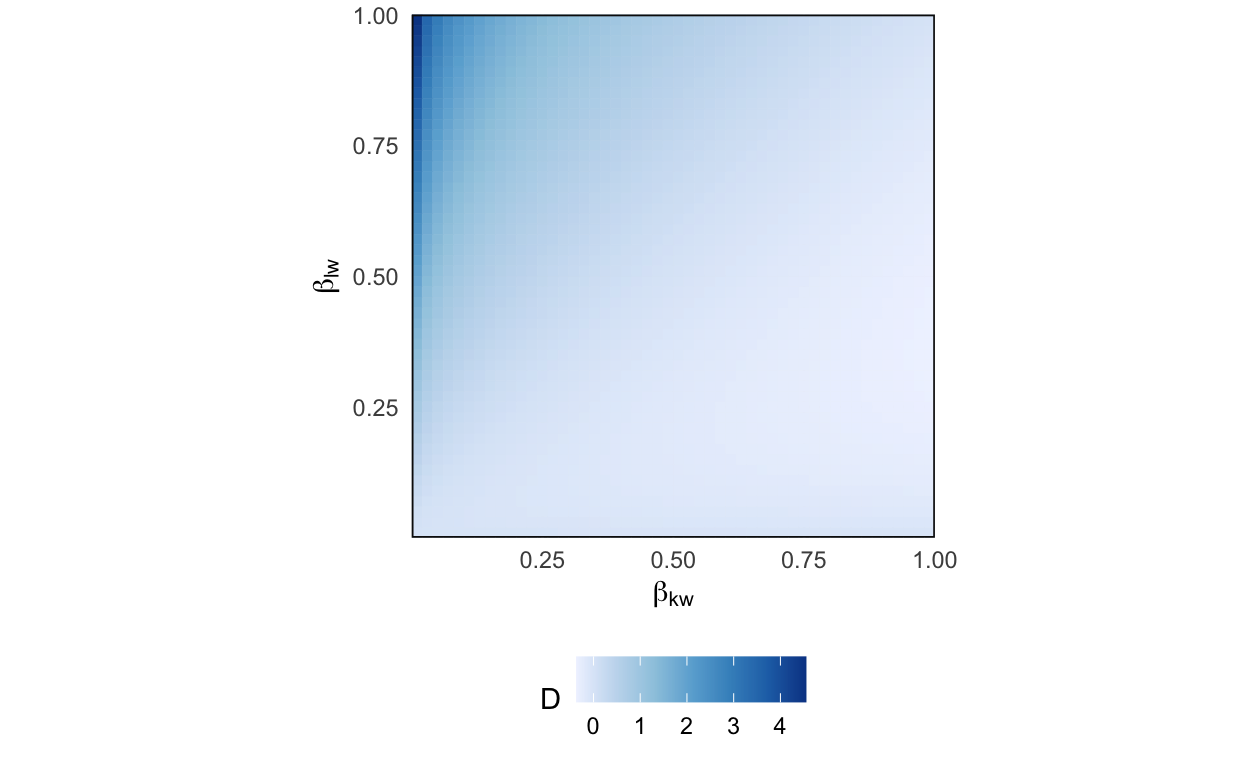
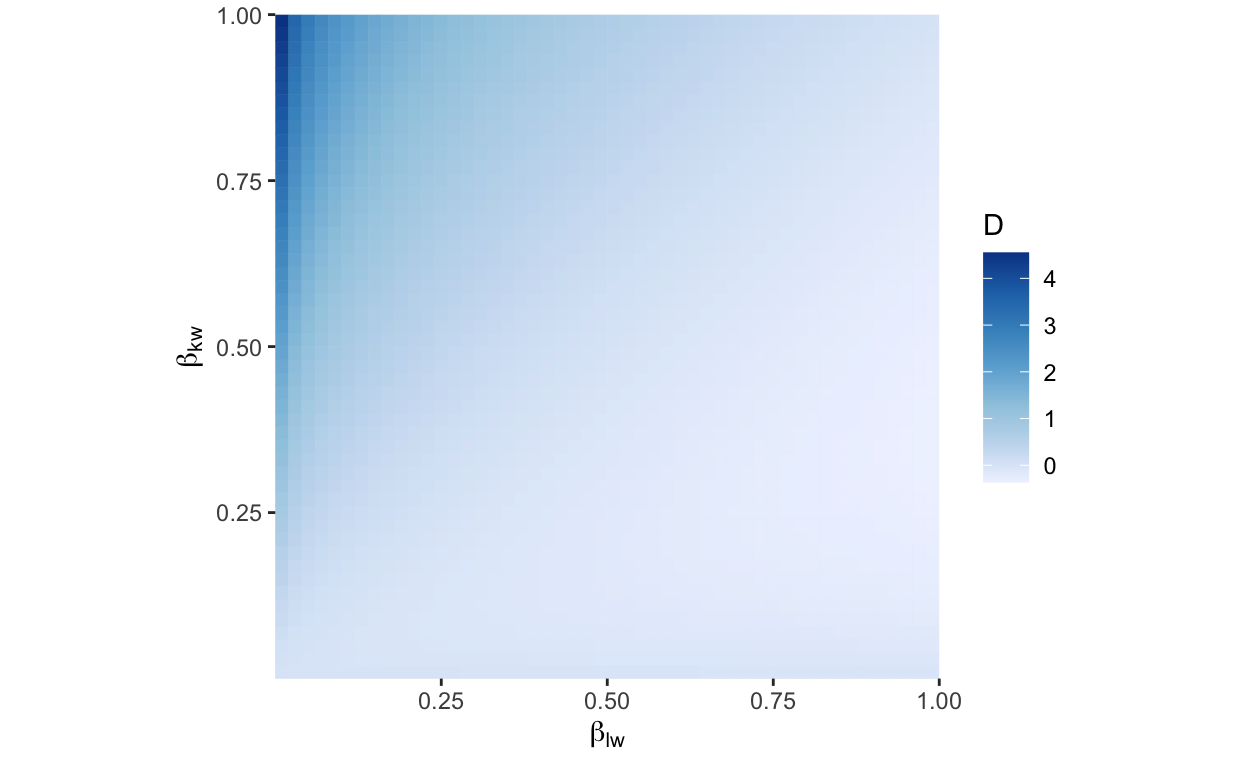
remove unecessary text in 11-2

Changed region(s): [[0.125, 0.0, 0.7812, 0.9688], [0.7812, 0.2812, 0.8438, 0.625]]

diff --git a/docs/posts/2021-03-30-week11-3/index.html b/docs/posts/2021-03-30-week11-3/index.html
@@ -2248,7 +2248,7 @@ d-article ul > li { /*to add back in space between bullet items that I took away
 </div>
 
 <div class="d-article">
-<p><em>Reading <a href="https://www.tidytextmining.com/topicmodeling.html">1</a> and <a href="https://github.com/krisrs1128/stat479/blob/master/_posts/2021-03-30-week11-3/week11-3.Rmd">2</a>, <a href="">Recording</a>, <a href="https://github.com/krisrs1128/stat479/blob/master/_posts/2021-03-30-week11-3/week11-3.Rmd">Rmarkdown</a></em></p>
+<p><em>Reading <a href="https://www.tidytextmining.com/topicmodeling.html">1</a> and <a href="https://github.com/krisrs1128/stat479/blob/master/_posts/2021-03-30-week11-3/week11-3.Rmd">2</a>, <a href="https://mediaspace.wisc.edu/media/Week%2011%20%5B3%5D%20Visualizing%20Topic%20Models/1_t6bn2guv">Recording</a>, <a href="https://github.com/krisrs1128/stat479/blob/master/_posts/2021-03-30-week11-3/week11-3.Rmd">Rmarkdown</a></em></p>
 <div class="layout-chunk" data-layout="l-body">
 <div class="sourceCode">
 <pre><code><span class='kw'><a href='https://rdrr.io/r/base/library.html'>library</a></span><span class='op'>(</span><span class='st'><a href='https://dplyr.tidyverse.org'>"dplyr"</a></span><span class='op'>)</span>
@@ -2283,8 +2283,9 @@ d-article ul > li { /*to add back in space between bullet items that I took away
 </code></pre>
 </div>
 </div>
+<h3 id="visualizing-topics">Visualizing Topics</h3>
 <ol start="2" type="1">
-<li>A topic is a probability distribution across a collection of words. If the vocabulary isn’t too large, two appropriate visualization strategieis are,
+<li>A topic is a probability distribution across a collection of words. If the vocabulary isn’t too large, two appropriate visualization strategies are,
 <ul>
 <li>Faceted barplot: Each facet corresponds to a topic. The height of each bar corresponds to a given word’s probability within the topic. The sum of heights across all bars is 1.</li>
 <li>Heatmap: Each row is a topic and each column is a word. The color of the heatmap cells gives the probability of the word within the given topic.</li>
@@ -2361,7 +2362,7 @@ Figure 3: The top words associated with the four fitted topics from the Great Li
 <ol start="7" type="1">
 <li>To visualize discriminative words, we first compute a discrimination measure for each word and filter to those with the top score. The filtered results can be used in either faceted barplots or heatmaps. Specifically, to find the words that discriminate between topics <span class="math inline">\(k\)</span> and <span class="math inline">\(l\)</span>, we compute <span class="math display">\[\begin{align*}
 D\left(k, l\right) := \beta_{kw}\log\left(\frac{\beta_{kw}}{\beta_{lw}}\right) + \left(\beta_{lw} - \beta_{kw}\right)
-\end{align*}\]</span> for each word <span class="math inline">\(w\)</span>. By maximizing over all pairs <span class="math inline">\(k, l\)</span>, we can determine whether the word is discriminative between any pair of topics. This might seem like a mysterious formula, but it is just a function that is large when topic <span class="math inline">\(l\)</span> has much larger probability than topic <span class="math inline">\(k\)</span> (see the figure).</li>
+\end{align*}\]</span> for each word <span class="math inline">\(w\)</span>. By maximizing over all pairs <span class="math inline">\(k, l\)</span>, we can determine whether the word is discriminative between any pair of topics. This might seem like a mysterious formula, but it is just a function that is large when topic <span class="math inline">\(k\)</span> has much larger probability than topic <span class="math inline">\(l\)</span> (see the figure).</li>
 </ol>
 <div class="layout-chunk" data-layout="l-body">
 
@@ -2370,25 +2371,25 @@ D\left(k, l\right) := \beta_{kw}\log\left(\frac{\beta_{kw}}{\beta_{lw}}\right) +
 <div class="sourceCode">
 <pre><code><span class='va'>p</span> <span class='op'>&lt;-</span> <span class='fu'><a href='https://rdrr.io/r/base/seq.html'>seq</a></span><span class='op'>(</span><span class='fl'>0.01</span>, <span class='fl'>.99</span>, length.out <span class='op'>=</span> <span class='fl'>50</span><span class='op'>)</span>
 <span class='va'>df</span> <span class='op'>&lt;-</span> <span class='fu'><a href='https://rdrr.io/r/base/expand.grid.html'>expand.grid</a></span><span class='op'>(</span><span class='va'>p</span>, <span class='va'>p</span><span class='op'>)</span> <span class='op'>%&gt;%</span>
-  <span class='fu'><a href='https://dplyr.tidyverse.org/reference/mutate.html'>mutate</a></span><span class='op'>(</span>D <span class='op'>=</span> <span class='fu'>kl_div</span><span class='op'>(</span><span class='va'>Var1</span>, <span class='va'>Var2</span><span class='op'>)</span><span class='op'>)</span>
+  <span class='fu'>mutate</span><span class='op'>(</span>D <span class='op'>=</span> <span class='fu'>kl_div</span><span class='op'>(</span><span class='va'>Var1</span>, <span class='va'>Var2</span><span class='op'>)</span><span class='op'>)</span>
 
-<span class='fu'><a href='https://ggplot2.tidyverse.org/reference/ggplot.html'>ggplot</a></span><span class='op'>(</span><span class='va'>df</span>, <span class='fu'><a href='https://ggplot2.tidyverse.org/reference/aes.html'>aes</a></span><span class='op'>(</span><span class='va'>Var2</span>, <span class='va'>Var1</span><span class='op'>)</span><span class='op'>)</span> <span class='op'>+</span>
-  <span class='fu'><a href='https://ggplot2.tidyverse.org/reference/geom_tile.html'>geom_tile</a></span><span class='op'>(</span><span class='fu'><a href='https://ggplot2.tidyverse.org/reference/aes.html'>aes</a></span><span class='op'>(</span>col <span class='op'>=</span> <span class='va'>D</span>, fill <span class='op'>=</span> <span class='va'>D</span><span class='op'>)</span><span class='op'>)</span> <span class='op'>+</span>
-  <span class='fu'><a href='https://ggplot2.tidyverse.org/reference/scale_continuous.html'>scale_x_continuous</a></span><span class='op'>(</span>expand <span class='op'>=</span> <span class='fu'><a href='https://rdrr.io/r/base/c.html'>c</a></span><span class='op'>(</span><span class='fl'>0</span>, <span class='fl'>0</span><span class='op'>)</span><span class='op'>)</span> <span class='op'>+</span>
-  <span class='fu'><a href='https://ggplot2.tidyverse.org/reference/scale_continuous.html'>scale_y_continuous</a></span><span class='op'>(</span>expand <span class='op'>=</span> <span class='fu'><a href='https://rdrr.io/r/base/c.html'>c</a></span><span class='op'>(</span><span class='fl'>0</span>, <span class='fl'>0</span><span class='op'>)</span><span class='op'>)</span> <span class='op'>+</span>
-  <span class='fu'><a href='https://ggplot2.tidyverse.org/reference/coord_fixed.html'>coord_fixed</a></span><span class='op'>(</span><span class='op'>)</span> <span class='op'>+</span>
-  <span class='fu'><a href='https://ggplot2.tidyverse.org/reference/scale_brewer.html'>scale_color_distiller</a></span><span class='op'>(</span>direction <span class='op'>=</span> <span class='fl'>1</span><span class='op'>)</span> <span class='op'>+</span>
-  <span class='fu'><a href='https://ggplot2.tidyverse.org/reference/scale_brewer.html'>scale_fill_distiller</a></span><span class='op'>(</span>direction <span class='op'>=</span> <span class='fl'>1</span><span class='op'>)</span> <span class='op'>+</span>
-  <span class='fu'><a href='https://ggplot2.tidyverse.org/reference/labs.html'>labs</a></span><span class='op'>(</span>
-    x <span class='op'>=</span> <span class='fu'><a href='https://rdrr.io/r/base/expression.html'>expression</a></span><span class='op'>(</span><span class='va'>beta</span><span class='op'>[</span><span class='va'>kw</span><span class='op'>]</span><span class='op'>)</span>,
-    y <span class='op'>=</span> <span class='fu'><a href='https://rdrr.io/r/base/expression.html'>expression</a></span><span class='op'>(</span><span class='va'>beta</span><span class='op'>[</span><span class='va'>lw</span><span class='op'>]</span><span class='op'>)</span>
+<span class='fu'>ggplot</span><span class='op'>(</span><span class='va'>df</span>, <span class='fu'>aes</span><span class='op'>(</span><span class='va'>Var2</span>, <span class='va'>Var1</span><span class='op'>)</span><span class='op'>)</span> <span class='op'>+</span>
+  <span class='fu'>geom_tile</span><span class='op'>(</span><span class='fu'>aes</span><span class='op'>(</span>col <span class='op'>=</span> <span class='va'>D</span>, fill <span class='op'>=</span> <span class='va'>D</span><span class='op'>)</span><span class='op'>)</span> <span class='op'>+</span>
+  <span class='fu'>scale_x_continuous</span><span class='op'>(</span>expand <span class='op'>=</span> <span class='fu'><a href='https://rdrr.io/r/base/c.html'>c</a></span><span class='op'>(</span><span class='fl'>0</span>, <span class='fl'>0</span><span class='op'>)</span><span class='op'>)</span> <span class='op'>+</span>
+  <span class='fu'>scale_y_continuous</span><span class='op'>(</span>expand <span class='op'>=</span> <span class='fu'><a href='https://rdrr.io/r/base/c.html'>c</a></span><span class='op'>(</span><span class='fl'>0</span>, <span class='fl'>0</span><span class='op'>)</span><span class='op'>)</span> <span class='op'>+</span>
+  <span class='fu'>coord_fixed</span><span class='op'>(</span><span class='op'>)</span> <span class='op'>+</span>
+  <span class='fu'>scale_color_distiller</span><span class='op'>(</span>direction <span class='op'>=</span> <span class='fl'>1</span><span class='op'>)</span> <span class='op'>+</span>
+  <span class='fu'>scale_fill_distiller</span><span class='op'>(</span>direction <span class='op'>=</span> <span class='fl'>1</span><span class='op'>)</span> <span class='op'>+</span>
+  <span class='fu'>labs</span><span class='op'>(</span>
+    y <span class='op'>=</span> <span class='fu'><a href='https://rdrr.io/r/base/expression.html'>expression</a></span><span class='op'>(</span><span class='va'>beta</span><span class='op'>[</span><span class='va'>kw</span><span class='op'>]</span><span class='op'>)</span>,
+    x <span class='op'>=</span> <span class='fu'><a href='https://rdrr.io/r/base/expression.html'>expression</a></span><span class='op'>(</span><span class='va'>beta</span><span class='op'>[</span><span class='va'>lw</span><span class='op'>]</span><span class='op'>)</span>
   <span class='op'>)</span>
 </code></pre>
 </div>
 <div class="figure"><span id="fig:unnamed-chunk-7"></span>
-<img src="week11-3_files/figure-html5/unnamed-chunk-7-1.png" alt="An illustration of the formula used for computing a word's discrimination between topics. The value of D is large when topic l has much larger probability than topic k." width="624" />
+<img src="week11-3_files/figure-html5/unnamed-chunk-7-1.png" alt="An illustration of the formula used for computing a word's discrimination between topics. The value of D is large when topic k has much larger probability than topic l." width="624" />
 <p class="caption">
-Figure 4: An illustration of the formula used for computing a word’s discrimination between topics. The value of D is large when topic l has much larger probability than topic k.
+Figure 4: An illustration of the formula used for computing a word’s discrimination between topics. The value of D is large when topic k has much larger probability than topic l.
 </p>
 </div>
 </div>
@@ -2423,6 +2424,7 @@ Figure 5: A heatmap of the terms that are most discriminative across the four to
 </p>
 </div>
 </div>
+<h3 id="visualizing-memberships">Visualizing Memberships</h3>
 <ol start="9" type="1">
 <li>Besides the topics, it is useful to study the topic proportions for each chapter. One compact approach is to use a boxplot. The result below suggest that each chapter is very definitely assigned to one of the four topics, except for chapters from Great Expectations. Therefore, while the model had the flexibility to learn more complex mixtures, it decided that a clustering structure made the most sense for Pride &amp; Prejudice, War of the Worlds, and 20,000 Leagues Under the Sea.</li>
 </ol>

diff --git a/docs/posts/2021-03-30-week11-2/index.html b/docs/posts/2021-03-30-week11-2/index.html
@@ -2248,7 +2248,7 @@ d-article ul > li { /*to add back in space between bullet items that I took away
 </div>
 
 <div class="d-article">
-<p><em><a href="https://www.tidytextmining.com/topicmodeling.html">Reading</a>, <a href="">Recording</a>, <a href="https://github.com/krisrs1128/stat479/blob/master/_posts/2021-03-30-week11-2/week11-2.Rmd">Rmarkdown</a></em></p>
+<p><em><a href="https://www.tidytextmining.com/topicmodeling.html">Reading</a>, <a href="https://mediaspace.wisc.edu/media/Week%2011%20%5B2%5D%20Fitting%20Topic%20Models/1_44m6jcvy">Recording</a>, <a href="https://github.com/krisrs1128/stat479/blob/master/_posts/2021-03-30-week11-2/week11-2.Rmd">Rmarkdown</a></em></p>
 <div class="layout-chunk" data-layout="l-body">
 <div class="sourceCode">
 <pre><code><span class='kw'><a href='https://rdrr.io/r/base/library.html'>library</a></span><span class='op'>(</span><span class='st'><a href='https://dplyr.tidyverse.org'>"dplyr"</a></span><span class='op'>)</span>
@@ -2428,151 +2428,7 @@ Weighting          : term frequency (tf)</code></pre>
 10 Pride and Prejudice_100     2 0.0000394  
 # … with 250 more rows</code></pre>
 </div>
-<div class="layout-chunk" data-layout="l-body">
-<div class="sourceCode">
-<pre><code><span class='fu'><a href='https://readr.tidyverse.org/reference/write_delim.html'>write_csv</a></span><span class='op'>(</span><span class='va'>topics</span>, <span class='st'>"~/Desktop/topics.csv"</span><span class='op'>)</span>
-<span class='fu'><a href='https://readr.tidyverse.org/reference/write_delim.html'>write_csv</a></span><span class='op'>(</span><span class='va'>memberships</span>,<span class='st'>"~/Desktop/memberships.csv"</span><span class='op'>)</span>
-</code></pre>
-</div>
-</div>
-<div class="layout-chunk" data-layout="l-body">
-<div class="sourceCode">
-<pre><code><span class='fu'><a href='https://rdrr.io/r/base/table.html'>table</a></span><span class='op'>(</span><span class='va'>memberships</span><span class='op'>$</span><span class='va'>document</span><span class='op'>)</span>
-</code></pre>
-</div>
-<pre><code>
-                   Great Expectations_0 
-                                      4 
-                  Pride and Prejudice_0 
-                                      4 
-                Pride and Prejudice_100 
-                                      4 
-                Pride and Prejudice_101 
-                                      4 
-                Pride and Prejudice_102 
-                                      4 
-                Pride and Prejudice_103 
-                                      4 
-                Pride and Prejudice_104 
-                                      4 
-                Pride and Prejudice_105 
-                                      4 
-                Pride and Prejudice_106 
-                                      4 
-                Pride and Prejudice_107 
-                                      4 
-                Pride and Prejudice_108 
-                                      4 
-                Pride and Prejudice_109 
-                                      4 
-                Pride and Prejudice_110 
-                                      4 
-                Pride and Prejudice_111 
-                                      4 
-                Pride and Prejudice_112 
-                                      4 
-                Pride and Prejudice_113 
-                                      4 
-                Pride and Prejudice_114 
-                                      4 
-                Pride and Prejudice_115 
-                                      4 
-                Pride and Prejudice_116 
-                                      4 
-                Pride and Prejudice_117 
-                                      4 
-                Pride and Prejudice_118 
-                                      4 
-                Pride and Prejudice_119 
-                                      4 
-                Pride and Prejudice_120 
-                                      4 
-                Pride and Prejudice_121 
-                                      4 
-                Pride and Prejudice_122 
-                                      4 
-                 Pride and Prejudice_62 
-                                      4 
-                 Pride and Prejudice_63 
-                                      4 
-                 Pride and Prejudice_64 
-                                      4 
-                 Pride and Prejudice_65 
-                                      4 
-                 Pride and Prejudice_66 
-                                      4 
-                 Pride and Prejudice_67 
-                                      4 
-                 Pride and Prejudice_68 
-                                      4 
-                 Pride and Prejudice_69 
-                                      4 
-                 Pride and Prejudice_70 
-                                      4 
-                 Pride and Prejudice_71 
-                                      4 
-                 Pride and Prejudice_72 
-                                      4 
-                 Pride and Prejudice_73 
-                                      4 
-                 Pride and Prejudice_74 
-                                      4 
-                 Pride and Prejudice_75 
-                                      4 
-                 Pride and Prejudice_76 
-                                      4 
-                 Pride and Prejudice_77 
-                                      4 
-                 Pride and Prejudice_78 
-                                      4 
-                 Pride and Prejudice_79 
-                                      4 
-                 Pride and Prejudice_80 
-                                      4 
-                 Pride and Prejudice_81 
-                                      4 
-                 Pride and Prejudice_82 
-                                      4 
-                 Pride and Prejudice_83 
-                                      4 
-                 Pride and Prejudice_84 
-                                      4 
-                 Pride and Prejudice_85 
-                                      4 
-                 Pride and Prejudice_86 
-                                      4 
-                 Pride and Prejudice_87 
-                                      4 
-                 Pride and Prejudice_88 
-                                      4 
-                 Pride and Prejudice_89 
-                                      4 
-                 Pride and Prejudice_90 
-                                      4 
-                 Pride and Prejudice_91 
-                                      4 
-                 Pride and Prejudice_92 
-                                      4 
-                 Pride and Prejudice_93 
-                                      4 
-                 Pride and Prejudice_94 
-                                      4 
-                 Pride and Prejudice_95 
-                                      4 
-                 Pride and Prejudice_96 
-                                      4 
-                 Pride and Prejudice_97 
-                                      4 
-                 Pride and Prejudice_98 
-                                      4 
-                 Pride and Prejudice_99 
-                                      4 
-                The War of the Worlds_0 
-                                      4 
-Twenty Thousand Leagues under the Sea_0 
-                                      4 </code></pre>
-</div>
-<div class="sourceCode" id="cb8"><pre class="sourceCode r distill-force-highlighting-css"><code class="sourceCode r"></code></pre></div>
+<div class="sourceCode" id="cb7"><pre class="sourceCode r distill-force-highlighting-css"><code class="sourceCode r"></code></pre></div>
 <!--radix_placeholder_article_footer-->
 <!--/radix_placeholder_article_footer-->
 </div>

diff --git a/docs/posts/2021-03-30-week11-4/index.html b/docs/posts/2021-03-30-week11-4/index.html
@@ -2248,7 +2248,7 @@ d-article ul > li { /*to add back in space between bullet items that I took away
 </div>
 
 <div class="d-article">
-<p><em><a href="https://journals.plos.org/plosgenetics/article?id=10.1371/journal.pgen.1006599">Reading</a>, <a href="">Recording</a>, <a href="https://github.com/krisrs1128/stat479/blob/master/_posts/2021-03-30-week11-4/week11-4.Rmd">Rmarkdown</a></em></p>
+<p><em><a href="https://journals.plos.org/plosgenetics/article?id=10.1371/journal.pgen.1006599">Reading</a>, <a href="https://mediaspace.wisc.edu/media/Week%2011%20%5B4%5D%20Topic%20Modeling%20Case%20Study/1_xorwv5pn">Recording</a>, <a href="https://github.com/krisrs1128/stat479/blob/master/_posts/2021-03-30-week11-4/week11-4.Rmd">Rmarkdown</a></em></p>
 <div class="layout-chunk" data-layout="l-body">
 <div class="sourceCode">
 <pre><code><span class='kw'><a href='https://rdrr.io/r/base/library.html'>library</a></span><span class='op'>(</span><span class='st'><a href='https://dplyr.tidyverse.org'>"dplyr"</a></span><span class='op'>)</span>

diff --git a/docs/posts/2021-03-30-week11-1/index.html b/docs/posts/2021-03-30-week11-1/index.html
@@ -2248,7 +2248,7 @@ d-article ul > li { /*to add back in space between bullet items that I took away
 </div>
 
 <div class="d-article">
-<p><em><a href="https://www.tidytextmining.com/topicmodeling.html">Reading</a>, <a href="">Recording</a>, <a href="https://github.com/krisrs1128/stat479/blob/master/_posts/2021-03-30-week11-1/week11-1.Rmd">Rmarkdown</a></em></p>
+<p><em><a href="https://www.tidytextmining.com/topicmodeling.html">Reading</a>, <a href="https://mediaspace.wisc.edu/media/Week%2011%20%5B1%5D%20Introduction%20to%20Topic%20Models/1_tqbn7u60">Recording</a>, <a href="https://github.com/krisrs1128/stat479/blob/master/_posts/2021-03-30-week11-1/week11-1.Rmd">Rmarkdown</a></em></p>
 <ol type="1">
 <li><p>Topic modeling is a type of dimensionality reduction method that is especially useful for high-dimensional count matrices. For example, it can be applied to,</p>
 <ul>
